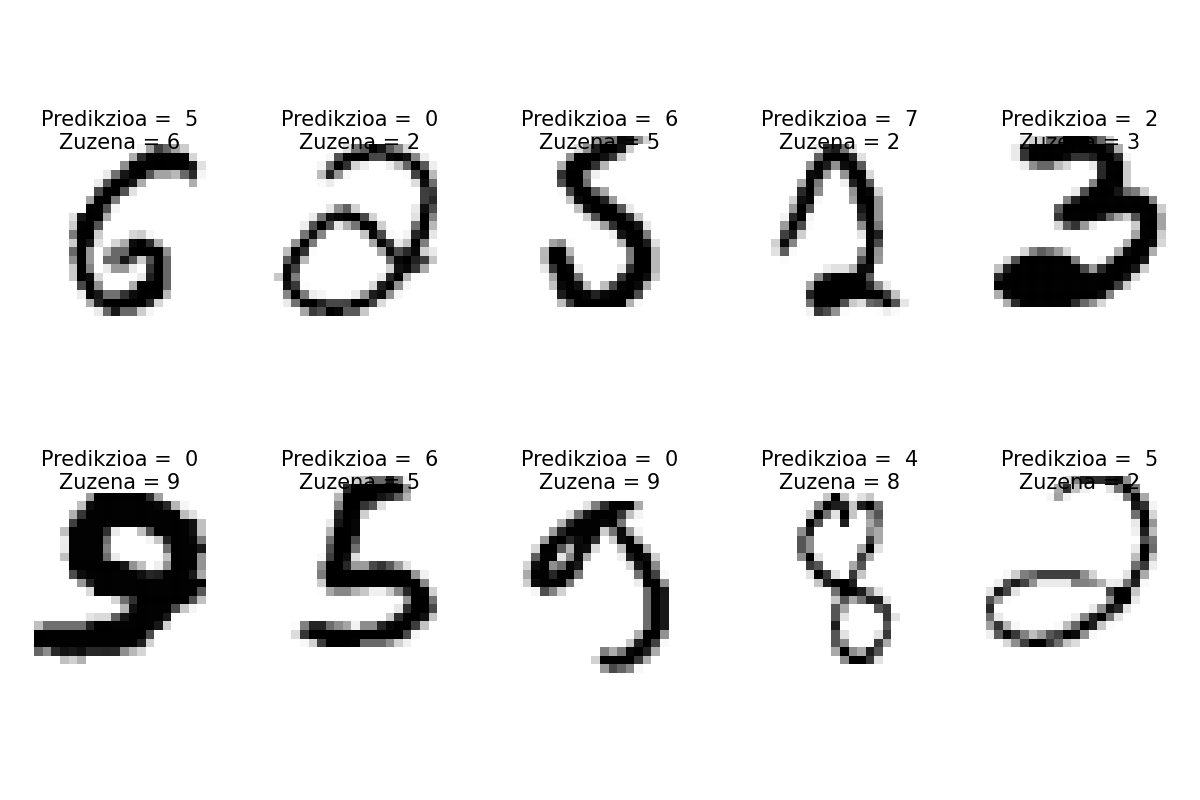
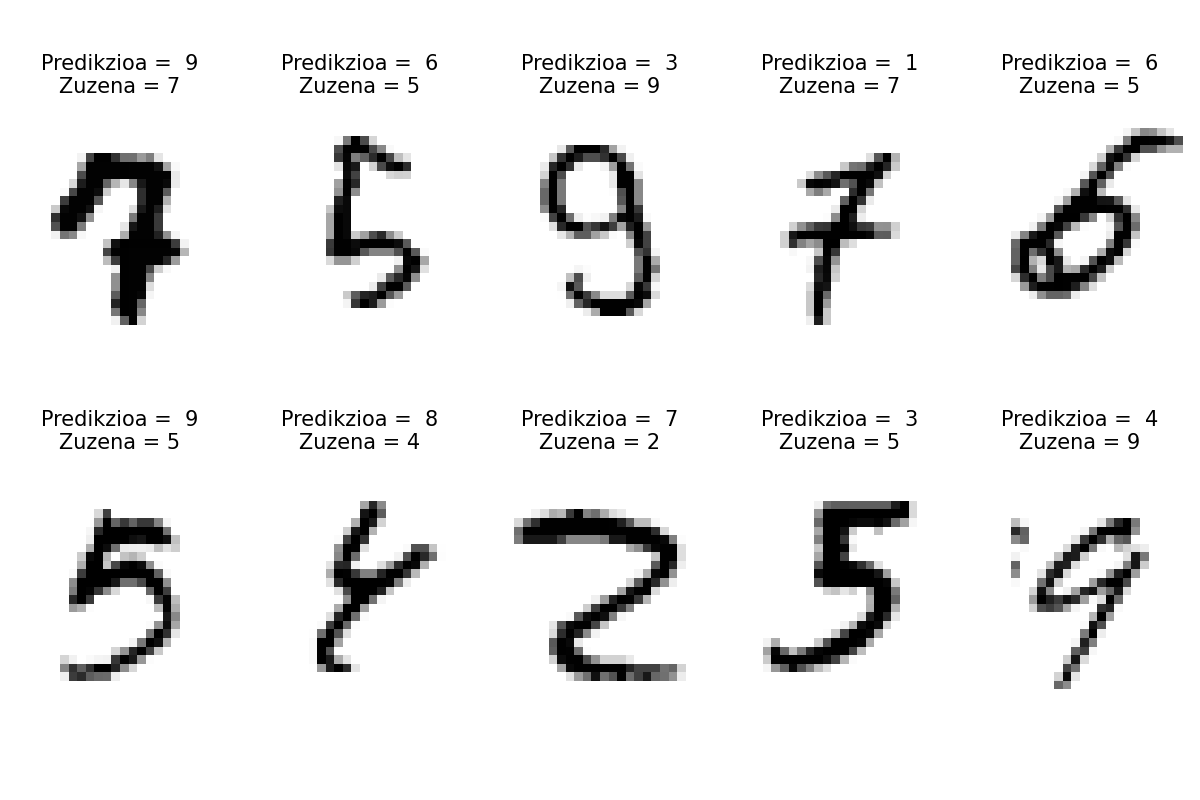
gaizki klasifikatuak legend ongi jarrita

diff --git a/Modelo_hoberena_sortzen/Modeloen_informazioa_adierazi.py b/Modelo_hoberena_sortzen/Modeloen_informazioa_adierazi.py
@@ -67,9 +67,8 @@ for i in range(2):
         adib = np.reshape(adib, (28,28))
         axs[i,j].imshow(adib, cmap = "gray_r")
         axs[i,j].axis("off")
-        axs[i,j].text(0.5,1,f"Predikzioa =  {str(predikzioa)}\nZuzena = {str(zuzena)}", fontsize = 15, horizontalalignment = "center", verticalalignment = "top", transform = axs[i,j].transAxes)
+        axs[i,j].text(0.5,1.2,f"Predikzioa =  {str(predikzioa)}\nZuzena = {str(zuzena)}", fontsize = 15, horizontalalignment = "center", verticalalignment = "top", transform = axs[i,j].transAxes)
         k += 1
-        print(i,j)
 
 plt.tight_layout(pad = 0)
 # plt.show()
@@ -111,9 +110,8 @@ for i in range(2):
         adib = np.reshape(adib, (28,28))
         axs[i,j].imshow(adib, cmap = "gray_r")
         axs[i,j].axis("off")
-        axs[i,j].text(0.5,1,f"Predikzioa =  {str(predikzioa)}\nZuzena = {str(zuzena)}", fontsize = 15, horizontalalignment = "center", verticalalignment = "top", transform = axs[i,j].transAxes)
+        axs[i,j].text(0.5,1.2,f"Predikzioa =  {str(predikzioa)}\nZuzena = {str(zuzena)}", fontsize = 15, horizontalalignment = "center", verticalalignment = "top", transform = axs[i,j].transAxes)
         k += 1
-        print(i,j)
 
 plt.tight_layout(pad = 0)
 # plt.show()
@@ -153,9 +151,8 @@ for i in range(2):
         adib = np.reshape(adib, (28,28))
         axs[i,j].imshow(adib, cmap = "gray_r")
         axs[i,j].axis("off")
-        axs[i,j].text(0.5,1,f"Predikzioa =  {str(predikzioa)}\nZuzena = {str(zuzena)}", fontsize = 15, horizontalalignment = "center", verticalalignment = "top", transform = axs[i,j].transAxes)
+        axs[i,j].text(0.5,1.2,f"Predikzioa =  {str(predikzioa)}\nZuzena = {str(zuzena)}", fontsize = 15, horizontalalignment = "center", verticalalignment = "top", transform = axs[i,j].transAxes)
         k += 1
-        print(i,j)
 
 plt.tight_layout(pad = 0)
 # plt.show()
@@ -197,9 +194,8 @@ for i in range(2):
         adib = np.reshape(adib, (28,28))
         axs[i,j].imshow(adib, cmap = "gray_r")
         axs[i,j].axis("off")
-        axs[i,j].text(0.5,1,f"Predikzioa =  {str(predikzioa)}\nZuzena = {str(zuzena)}", fontsize = 15, horizontalalignment = "center", verticalalignment = "top", transform = axs[i,j].transAxes)
+        axs[i,j].text(0.5,1.2,f"Predikzioa =  {str(predikzioa)}\nZuzena = {str(zuzena)}", fontsize = 15, horizontalalignment = "center", verticalalignment = "top", transform = axs[i,j].transAxes)
         k += 1
-        print(i,j)
 
 plt.tight_layout(pad = 0)
 # plt.show()
